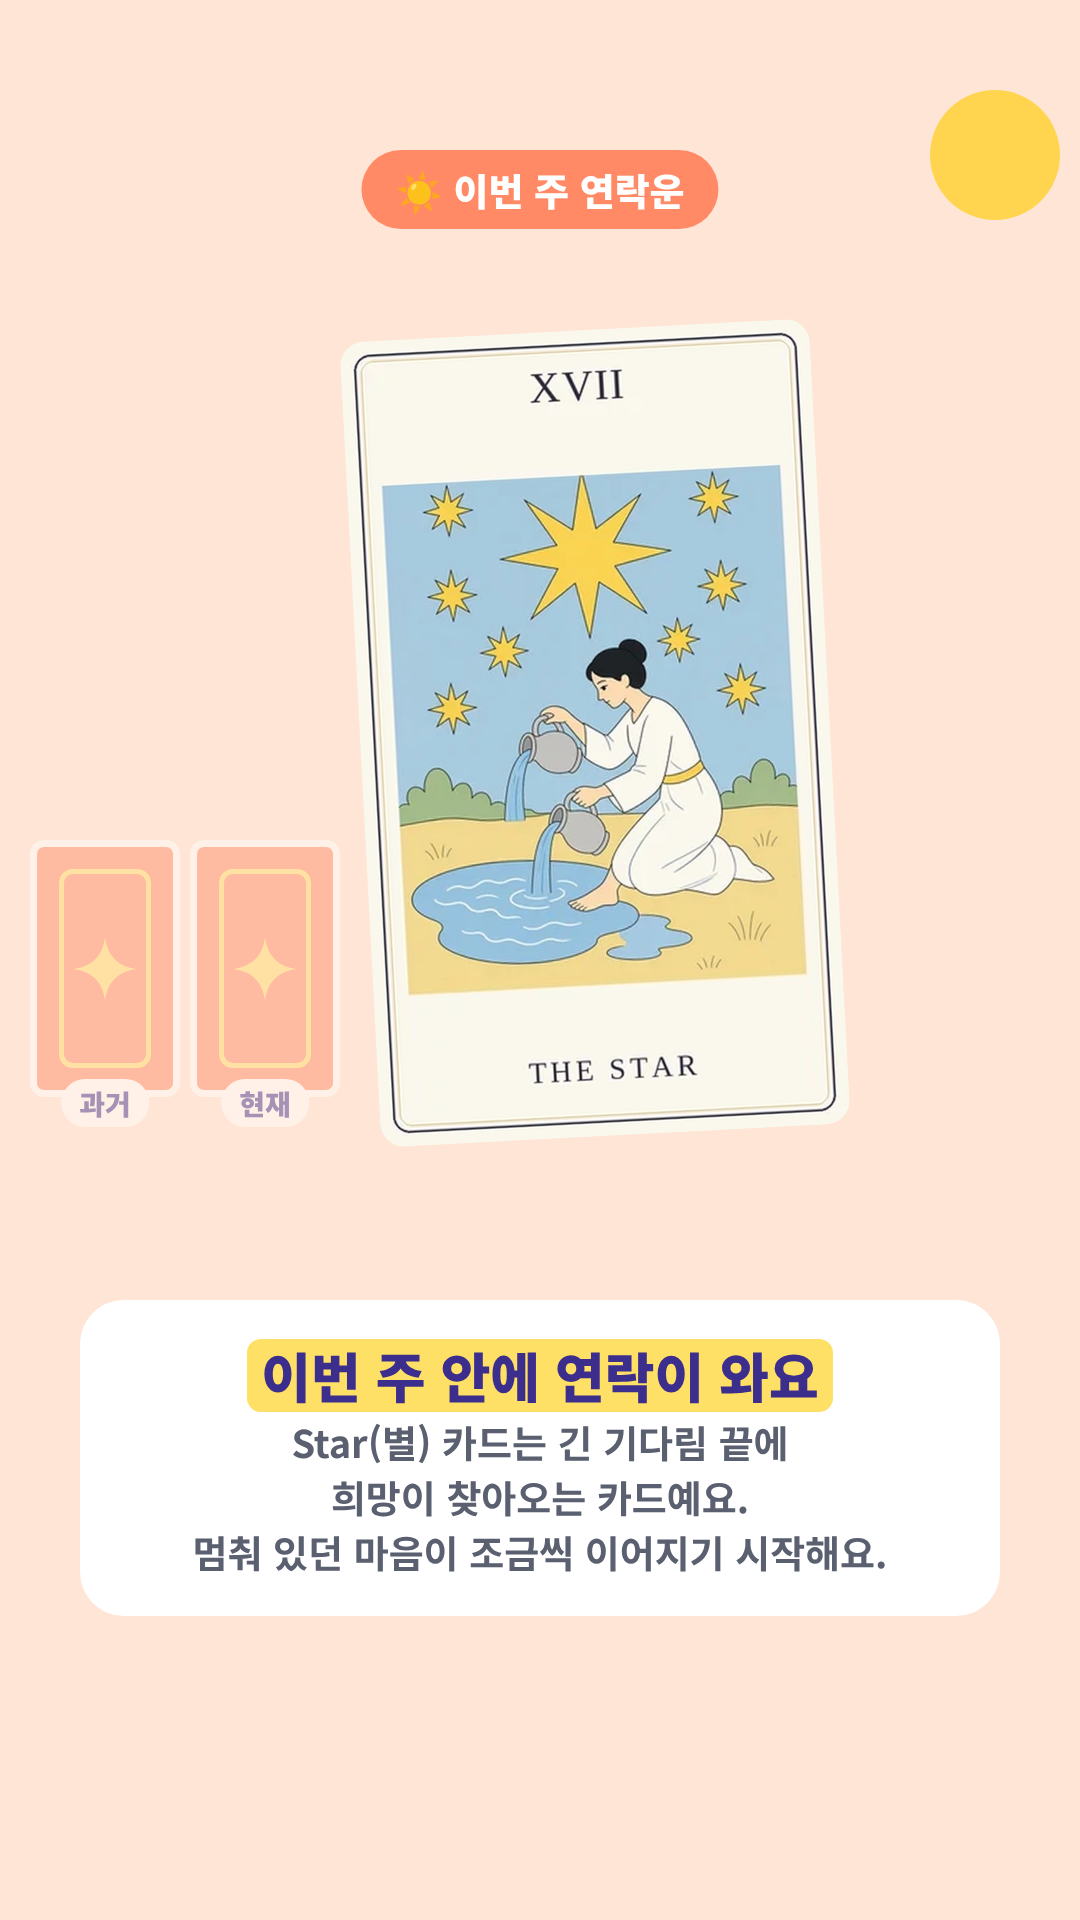
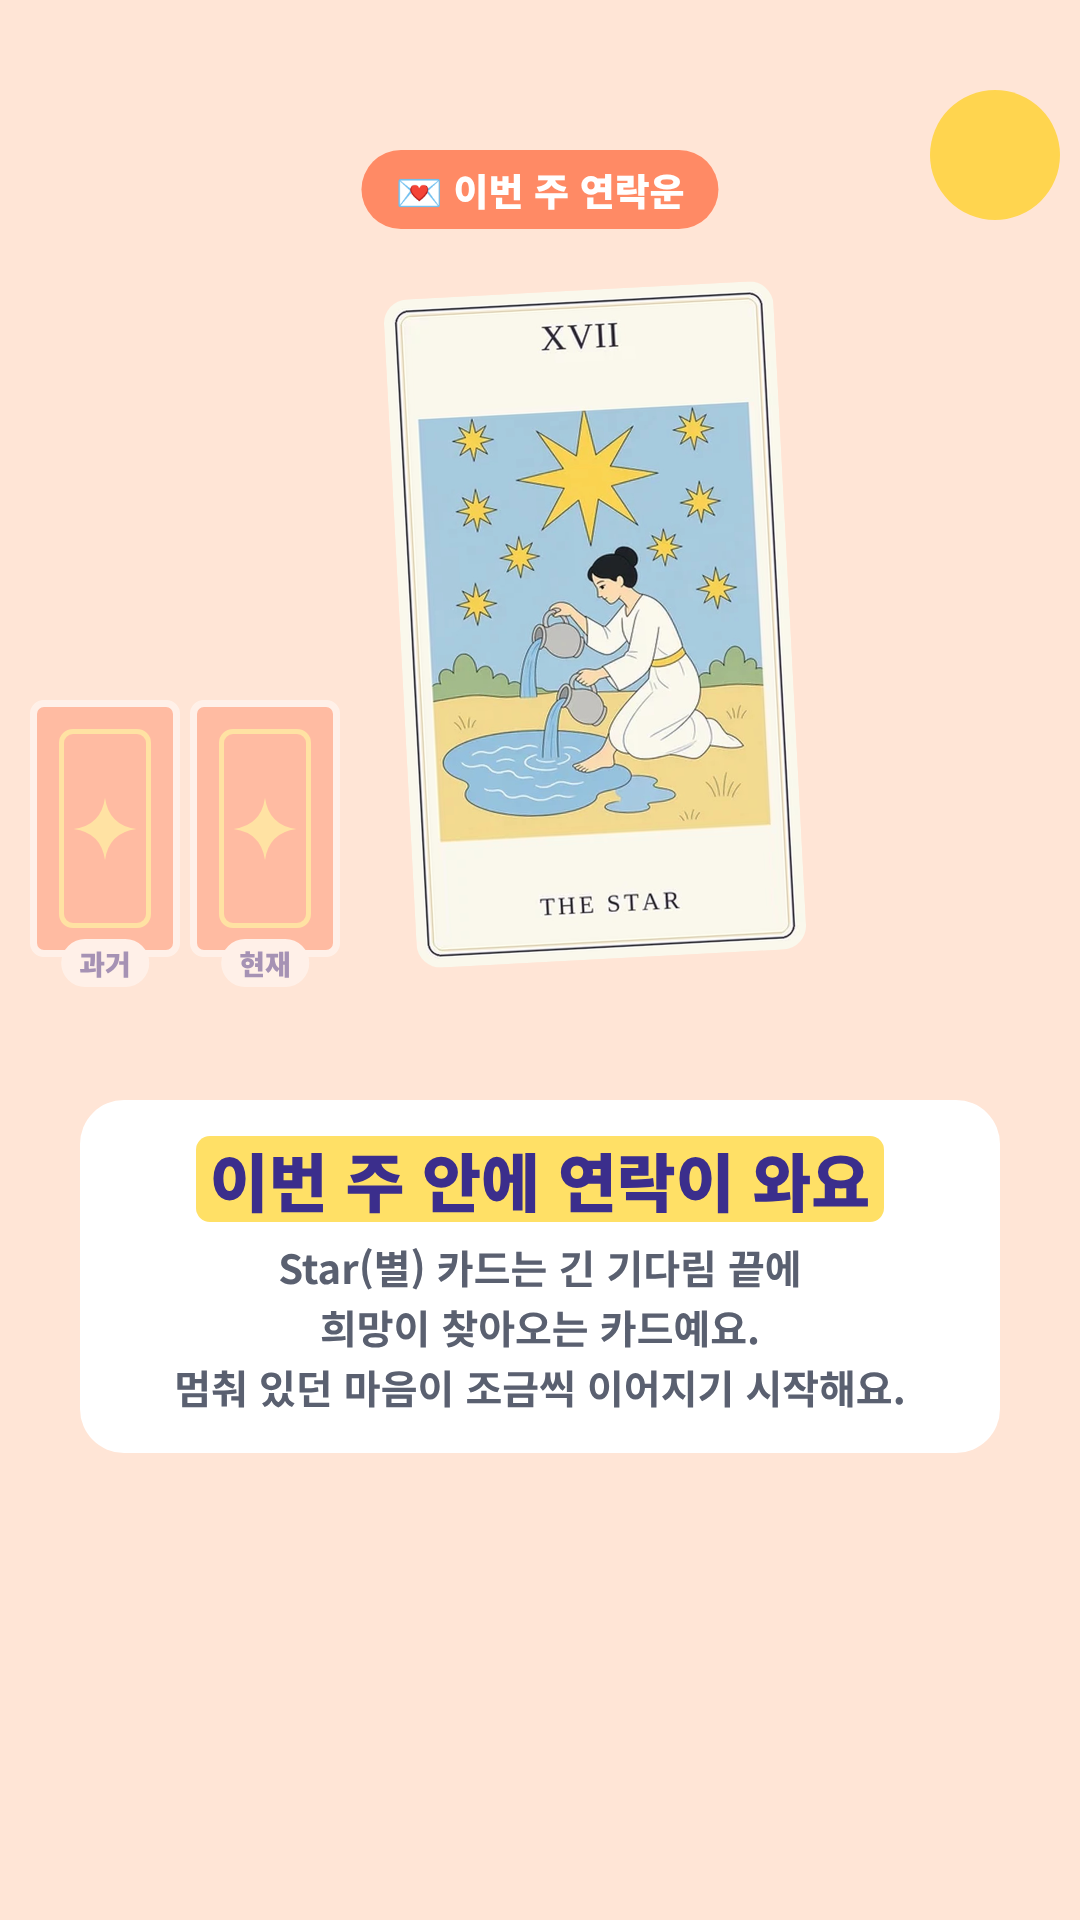
연락운 머리맡 알림: 키워드·결론 크기·마무리 제목 정리, 배지 💌
Claude-Session: https://claude.ai/code/session_01CejgdC5FKbbZMnpaYgrfgJ

diff --git a/promo/src/reel_mcall_04_answer.html b/promo/src/reel_mcall_04_answer.html
@@ -32,11 +32,12 @@
 .phone .tm{font-size:54px}.phone .nt{margin-top:22px;font-size:24px}
 .rp{margin-top:26px;padding:14px 0;border-radius:999px;background:#FF7AB6;color:#FFF;text-align:center;font-size:26px;font-weight:900}
 .ans{z-index:6}
+.ans .mk{font-size:64px}.ans small{font-size:40px;margin-top:14px;line-height:1.5}
 </style></head><body>
 <div class="f" id="frame">
-<span class="bd">☀ 이번 주 연락운</span><div class="sunw"></div>
-<div class="mini2" style="left:30px;top:840px"><div class="bk" style="background:#FF8A65;border-width:7px;border-radius:14px"><svg viewBox="0 0 10 10"><path d="M5 0Q5.6 4.4 10 5Q5.6 5.6 5 10Q4.4 5.6 0 5Q4.4 4.4 5 0z" fill="#FFE066"/></svg></div><b>과거</b></div><div class="mini2" style="left:190px;top:840px"><div class="bk" style="background:#FF8A65;border-width:7px;border-radius:14px"><svg viewBox="0 0 10 10"><path d="M5 0Q5.6 4.4 10 5Q5.6 5.6 5 10Q4.4 5.6 0 5Q4.4 4.4 5 0z" fill="#FFE066"/></svg></div><b>현재</b></div>
-<div class="cd" style="top:330px;width:470px;left:360px;margin-left:0"><img class="tcard" src="cards/tr17@2x.jpg" alt="Star(별)" style="border:0;border-radius:24px;background:none"></div>
+<span class="bd">💌 이번 주 연락운</span><div class="sunw"></div>
+<div class="mini2" style="left:30px;top:700px"><div class="bk" style="background:#FF8A65;border-width:7px;border-radius:14px"><svg viewBox="0 0 10 10"><path d="M5 0Q5.6 4.4 10 5Q5.6 5.6 5 10Q4.4 5.6 0 5Q4.4 4.4 5 0z" fill="#FFE066"/></svg></div><b>과거</b></div><div class="mini2" style="left:190px;top:700px"><div class="bk" style="background:#FF8A65;border-width:7px;border-radius:14px"><svg viewBox="0 0 10 10"><path d="M5 0Q5.6 4.4 10 5Q5.6 5.6 5 10Q4.4 5.6 0 5Q4.4 4.4 5 0z" fill="#FFE066"/></svg></div><b>현재</b></div>
+<div class="cd" style="top:290px;width:390px;left:400px;margin-left:0"><img class="tcard" src="cards/tr17@2x.jpg" alt="Star(별)" style="border:0;border-radius:24px;background:none"></div>
 
-<div class="ans" style="top:1300px"><span class="mk">이번 주 안에 연락이 와요</span><small>Star(별) 카드는 긴 기다림 끝에<br>희망이 찾아오는 카드예요.<br>멈춰 있던 마음이 조금씩 이어지기 시작해요.</small></div>
+<div class="ans" style="top:1100px"><span class="mk">이번 주 안에 연락이 와요</span><small>Star(별) 카드는 긴 기다림 끝에<br>희망이 찾아오는 카드예요.<br>멈춰 있던 마음이 조금씩 이어지기 시작해요.</small></div>
 </div></body></html>

diff --git a/promo/src/reel_mcall_03_reveal.html b/promo/src/reel_mcall_03_reveal.html
@@ -30,6 +30,6 @@
 .plate .kw{display:block;font-size:34px;font-weight:800;color:#8a6a5e}
 .nm{position:absolute;left:50%;top:1200px;translate:-50% 0;padding:12px 38px;background:#3B2E8C;border-radius:999px;font-size:50px;font-weight:900;color:#FFF;white-space:nowrap;z-index:6}.nm b{color:#FFE066}</style></head><body>
 <div class="f" id="frame">
-<span class="bd">☀ 이번 주 연락운</span><div class="sunw"></div>
-<div class="cd" style="top:300px;width:460px"><img class="tcard" src="cards/tr17@2x.jpg" alt="Star(별)" style="border:0;border-radius:24px;background:none"></div><div class="plate"><span class="nm2"><i>✦</i>Star(별)<i>✦</i></span><span class="kw">희망 · 회복 · 이어지는 마음</span></div><div class="bed" style="top:1560px"></div><div class="pillow" style="top:1480px;left:280px"></div><div class="blanket" style="top:1700px"></div><img src="../../images/mm01.png" style="position:absolute;left:310px;top:1380px;width:460px;z-index:2">
+<span class="bd">💌 이번 주 연락운</span><div class="sunw"></div>
+<div class="cd" style="top:300px;width:460px"><img class="tcard" src="cards/tr17@2x.jpg" alt="Star(별)" style="border:0;border-radius:24px;background:none"></div><div class="plate"><span class="nm2"><i>✦</i>Star(별)<i>✦</i></span><span class="kw">희망 · 회복 · 기다림의 끝</span></div><div class="bed" style="top:1560px"></div><div class="pillow" style="top:1480px;left:280px"></div><div class="blanket" style="top:1700px"></div><img src="../../images/mm01.png" style="position:absolute;left:310px;top:1380px;width:460px;z-index:2">
 </div></body></html>

diff --git a/promo/src/reel_mcall_02_future.html b/promo/src/reel_mcall_02_future.html
@@ -25,7 +25,7 @@
 .sunw{left:930px;top:90px;width:130px;height:130px}
 .row span:not(.on){opacity:.35}.row .on{scale:1.15}</style></head><body>
 <div class="f" id="frame">
-<span class="bd">☀ 이번 주 연락운</span><div class="sunw"></div>
+<span class="bd">💌 이번 주 연락운</span><div class="sunw"></div>
 <p class="t" style="top:300px">이번 주 <span class="mk">미래 한 장만</span> 볼게요</p>
 <div class="row" style="top:720px"><span><div class="bk" style="background:#FF8A65"><svg viewBox="0 0 10 10"><path d="M5 0Q5.6 4.4 10 5Q5.6 5.6 5 10Q4.4 5.6 0 5Q4.4 4.4 5 0z" fill="#FFE066"/></svg></div><b>과거</b></span><span><div class="bk" style="background:#FF8A65"><svg viewBox="0 0 10 10"><path d="M5 0Q5.6 4.4 10 5Q5.6 5.6 5 10Q4.4 5.6 0 5Q4.4 4.4 5 0z" fill="#FFE066"/></svg></div><b>현재</b></span><span class="on"><div class="bk" style="background:#FF7AB6"><svg viewBox="0 0 10 10"><path d="M5 0Q5.6 4.4 10 5Q5.6 5.6 5 10Q4.4 5.6 0 5Q4.4 4.4 5 0z" fill="#FFE066"/></svg></div><b>미래</b></span></div><div class="bed" style="top:1560px"></div><div class="pillow" style="top:1480px;left:280px"></div><div class="blanket" style="top:1700px"></div><img src="../../images/mm01.png" style="position:absolute;left:310px;top:1380px;width:460px;z-index:2">
 </div></body></html>

diff --git a/promo/src/reel_mcall_06_tip.html b/promo/src/reel_mcall_06_tip.html
@@ -29,6 +29,6 @@
 .who{display:inline-block;padding:8px 26px;background:#BF77FF;border-radius:999px;color:#FFF;font-size:32px;font-weight:800}
 .line{margin-top:20px;font-size:52px;line-height:1.45;font-weight:900;color:#5D4037}.line small{display:block;margin-top:12px;font-size:40px;font-weight:700;color:#8a6a5e}</style></head><body>
 <div class="f" id="frame">
-<span class="bd">☀ 이번 주 연락운</span><div class="sunw"></div>
+<span class="bd">💌 이번 주 연락운</span><div class="sunw"></div>
 <div class="mini"><img class="tcard" src="cards/tr17@2x.jpg" alt="Star(별)" style="border:0;border-radius:24px;background:none"></div><div class="bub"><span class="who">릴멜의 한마디</span><p class="line">연락이 오면<br><span class="mk">반갑게, 가볍게</span> 받아 주세요<small>지난 이야기는 천천히 해도 늦지 않아요</small></p></div><div class="bed" style="top:1560px"></div><div class="pillow" style="top:1480px;left:280px"></div><div class="blanket" style="top:1700px"></div><img src="../../images/mm01.png" style="position:absolute;left:310px;top:1380px;width:460px;z-index:2">
 </div></body></html>

diff --git a/promo/src/reel_mcall_05_moment.html b/promo/src/reel_mcall_05_moment.html
@@ -28,7 +28,7 @@
 .bigp .rp{margin-top:50px;padding:22px 0;border-radius:999px;background:#FF7AB6;color:#FFF;text-align:center;font-size:42px;font-weight:900}
 .ln{position:absolute;left:50px;right:50px;text-align:center;font-size:50px;line-height:1.5;font-weight:900;color:#5D4037;z-index:5}</style></head><body>
 <div class="f" id="frame">
-<span class="bd">☀ 이번 주 연락운</span><div class="sunw"></div>
+<span class="bd">💌 이번 주 연락운</span><div class="sunw"></div>
 <div class="phone bigp"><div class="sc"><div class="tm">7:30</div><div class="nt">💬 그 사람<br>좋은 아침 ☀</div><div class="rp">답장하기 💌</div></div></div>
 <p class="ln" style="top:1190px">휴대폰 화면에 <span class="mk">그 사람 이름이 뜨는 순간</span>,<br>심장이 먼저 알아챌 거예요 💓</p>
 <p class="ln" style="top:1420px">"좋은 아침" 한마디지만<br><span class="mk">그 사람도 몇 번이나 썼다 지웠어요</span></p>

diff --git a/promo/src/reel_mcall_01_hook.html b/promo/src/reel_mcall_01_hook.html
@@ -28,7 +28,7 @@
 .th{position:absolute;left:560px;top:1360px;padding:18px 32px;background:#FFF;border-radius:40px;font-size:42px;font-weight:900;color:#5D4037;z-index:5}
 </style></head><body>
 <div class="f" id="frame">
-<span class="bd">☀ 이번 주 연락운</span><p class="t">이 영상이 떴다면,<br><span class="mk">그 사람 생각 중</span>이었죠?</p><div class="sunw"></div>
+<span class="bd">💌 이번 주 연락운</span><p class="t">이 영상이 떴다면,<br><span class="mk">그 사람 생각 중</span>이었죠?</p><div class="sunw"></div>
 <div class="ph2"><div class="sc"><div class="tm">7:29</div><div class="em">새 알림 없음</div></div></div>
 <div class="th">💭 연락 올까…?</div>
 <div class="bed" style="top:1560px"></div><div class="pillow" style="top:1480px;left:280px"></div><div class="blanket" style="top:1700px"></div><img src="../../images/mm01.png" style="position:absolute;left:310px;top:1380px;width:460px;z-index:2">

diff --git a/promo/src/reel_mcall_07b.html b/promo/src/reel_mcall_07b.html
@@ -31,7 +31,7 @@
 .memo::before{content:"";position:absolute;left:50%;top:-22px;width:150px;height:44px;margin-left:-75px;background:rgba(255,255,255,.75);rotate:-4deg}
 .memo small{display:block;font-size:34px;font-weight:700;color:#8a6a5e;margin-top:6px}</style></head><body>
 <div class="f" id="frame">
-<span class="bd">☀ 이번 주 연락운</span><div class="sunw"></div>
+<span class="bd">💌 이번 주 연락운</span><div class="sunw"></div>
 <p class="t" style="top:270px">그 사람에게서<br><span class="mk">연락이 오면</span></p>
 <div class="memo" style="left:90px;top:560px;background:#FFF59D;rotate:-4deg">댓글로 알려 주세요 💌<small>"연락 왔어요!" 한마디면 충분해요</small></div>
 <div class="memo" style="left:430px;top:860px;background:#FFC1D9;rotate:5deg">복채는 ❤<br>두 번 톡톡</div>

diff --git a/promo/src/reel_mcall_07_end.html b/promo/src/reel_mcall_07_end.html
@@ -37,8 +37,8 @@
 .snd{flex:none;font-size:40px;font-weight:900;color:#FF7AB6}
 .hint{margin-top:26px;text-align:center;font-size:34px;color:#8a6a5e;font-weight:700}</style></head><body>
 <div class="f" id="frame">
-<span class="bd">☀ 이번 주 연락운</span><div class="sunw"></div>
-<p class="t" style="top:270px">그 사람에게서<br><span class="mk">연락이 오면</span></p>
+<span class="bd">💌 이번 주 연락운</span><div class="sunw"></div>
+<p class="t" style="top:270px">연락 오면<br><span class="mk">여기에</span> 알려 주세요 👇</p>
 <div class="sheet"><h4>댓글</h4>
 <div class="cmt"><div class="av">🙂</div><div class="inp">연락 왔어요! 💌<i></i></div><span class="snd">게시</span></div>
 <p class="hint">한마디만 남겨 주세요</p></div>

diff --git a/promo/src/reel_mcall_07c.html b/promo/src/reel_mcall_07c.html
@@ -33,7 +33,7 @@
 .btn{position:absolute;left:0;right:0;text-align:center;z-index:5}
 .btn span{display:inline-block;padding:20px 44px;border-radius:999px;font-size:44px;font-weight:900}</style></head><body>
 <div class="f" id="frame">
-<span class="bd">☀ 이번 주 연락운</span><div class="sunw"></div>
+<span class="bd">💌 이번 주 연락운</span><div class="sunw"></div>
 <svg class="hrt" viewBox="0 0 10 9"><path d="M5 9C1 6 0 4.2 0 2.8 0 1.2 1.2 0 2.6 0 3.6 0 4.5.6 5 1.5 5.5.6 6.4 0 7.4 0 8.8 0 10 1.2 10 2.8 10 4.2 9 6 5 9Z" fill="#FF7AB6"/></svg>
 <p class="hx">연락 오면<br>댓글로 알려 주세요<small>💌 기다릴게요</small></p>
 <p class="btn" style="top:1130px"><span style="background:#FFF;color:#FF7AB6">복채는 ❤ 두 번 톡톡</span></p>

diff --git a/promo/src/reel_mcall_07f.html b/promo/src/reel_mcall_07f.html
@@ -34,7 +34,7 @@
 .ck b{flex:none;width:64px;height:64px;border-radius:18px;border:5px solid #FF7AB6;text-align:center;line-height:52px;font-size:44px;color:#FF7AB6}
 .ck small{display:block;font-size:32px;font-weight:700;color:#8a6a5e}</style></head><body>
 <div class="f" id="frame">
-<span class="bd">☀ 이번 주 연락운</span><div class="sunw"></div>
+<span class="bd">💌 이번 주 연락운</span><div class="sunw"></div>
 <div class="note"><h3>☑ 이번 주 할 일</h3>
 <div class="ck"><b>✓</b><span>Star(별) 카드 받기 ✨</span></div>
 <div class="ck"><b></b><span>연락 오면 댓글 남기기 💌</span></div>

diff --git a/promo/src/reel_mcall_07e.html b/promo/src/reel_mcall_07e.html
@@ -37,7 +37,7 @@
 .snd{flex:none;font-size:40px;font-weight:900;color:#FF7AB6}
 .hint{margin-top:26px;text-align:center;font-size:34px;color:#8a6a5e;font-weight:700}</style></head><body>
 <div class="f" id="frame">
-<span class="bd">☀ 이번 주 연락운</span><div class="sunw"></div>
+<span class="bd">💌 이번 주 연락운</span><div class="sunw"></div>
 <p class="t" style="top:270px">그 사람에게서<br><span class="mk">연락이 오면</span></p>
 <div class="sheet"><h4>댓글</h4>
 <div class="cmt"><div class="av">🙂</div><div class="inp">연락 왔어요! 💌<i></i></div><span class="snd">게시</span></div>

diff --git a/promo/src/reel_mcall_07a.html b/promo/src/reel_mcall_07a.html
@@ -37,7 +37,7 @@
 .cta{position:absolute;left:0;right:0;top:1230px;text-align:center;z-index:5}
 .cta span{display:inline-block;margin:0 8px;padding:16px 34px;border-radius:999px;font-size:40px;font-weight:900}</style></head><body>
 <div class="f" id="frame">
-<span class="bd">☀ 이번 주 연락운</span><div class="sunw"></div>
+<span class="bd">💌 이번 주 연락운</span><div class="sunw"></div>
 <div class="ph"><div class="sc"><div class="hd">💬 그 사람</div>
 <div class="bb yo" style="top:130px">좋은 아침 ☀</div>
 <div class="bb me" style="top:250px">응! 잘 지냈어 😊</div>
